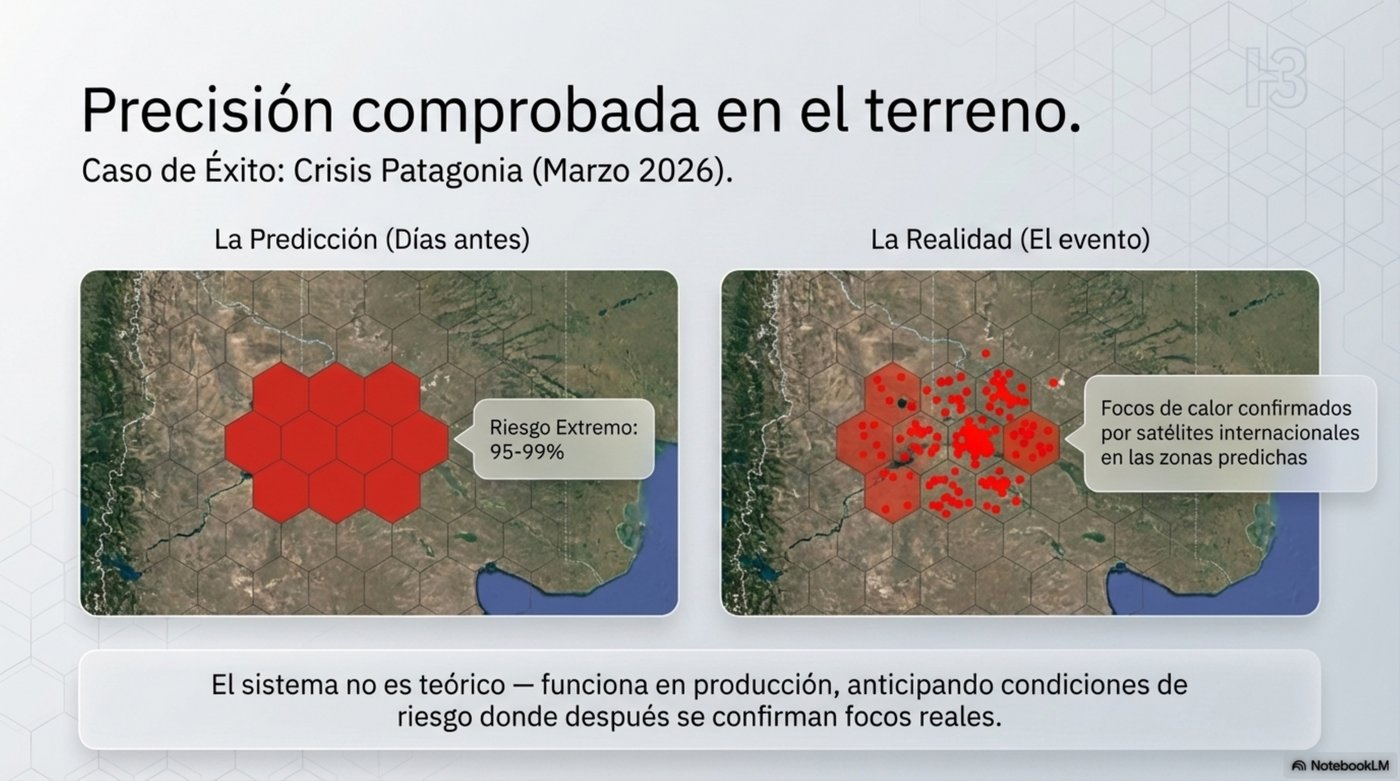
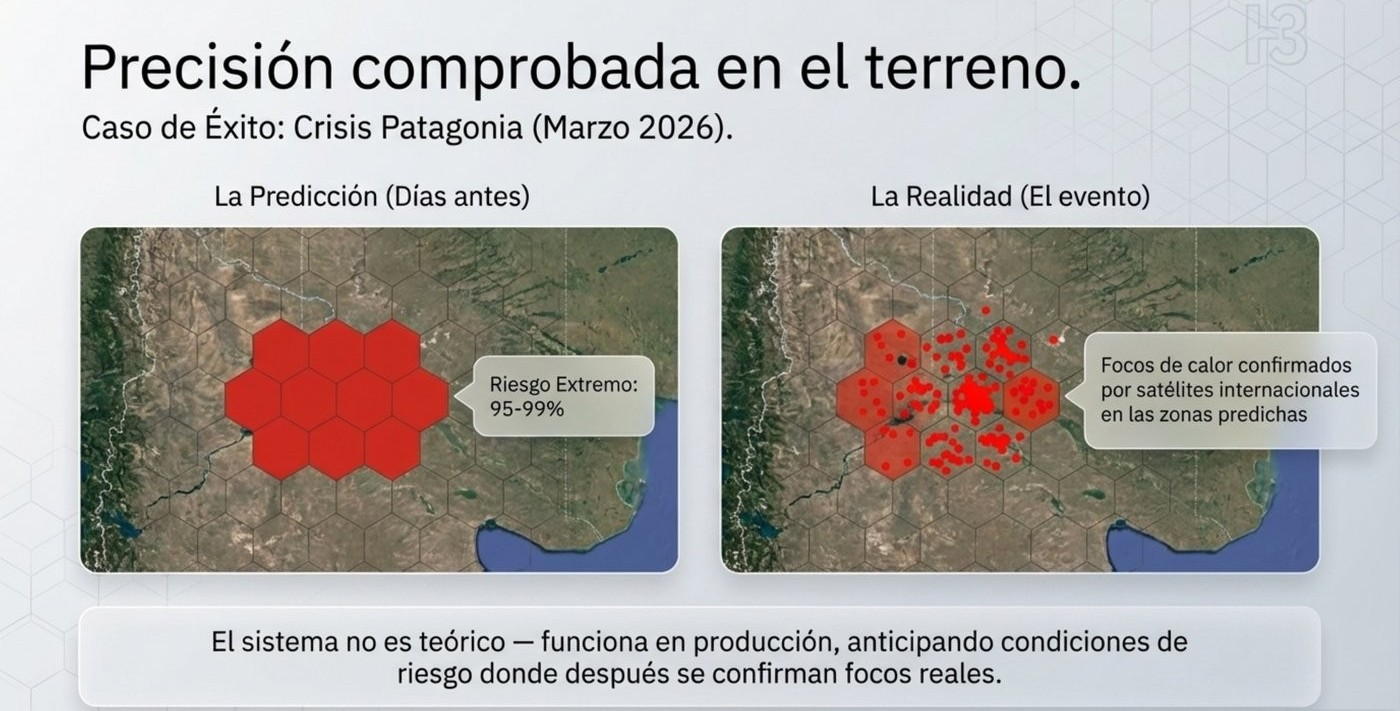
cambios de imagenes y legales

diff --git a/styles.css b/styles.css
@@ -706,12 +706,24 @@ a:hover { text-decoration: underline; }
 
 /* ===== RESPONSIVE ===== */
 @media (max-width: 768px) {
-    .hero h1 { font-size: 2rem; }
+    .header-content { flex-wrap: wrap; gap: 8px; justify-content: center; }
+    .header-content .logo img { height: 80px !important; }
+    .header-btn { font-size: 0.75rem; padding: 6px 12px; }
+    .lang-toggle { order: -1; width: 100%; text-align: center; }
+
+    .hero h1 { font-size: 1.8rem; }
+    .hero-subtitle { font-size: 0.95rem !important; }
     .hero-stats { flex-direction: column; gap: 24px; }
+    .hero-stat-value { font-size: 1.8rem; }
+
     .crisis-grid, .story-content, .contact-grid { grid-template-columns: 1fr; }
     .crisis-images { grid-column: 1; }
+    .comparison-grid { grid-template-columns: 1fr; }
     .solution-points, .apps-grid { grid-template-columns: 1fr 1fr; }
     .awards-row { flex-direction: column; }
+    .team-cards { flex-direction: column; }
+
+    .data-header h2, .section h2 { font-size: 1.5rem; }
 
     .map-badge {
         top: 12px;
@@ -723,10 +735,19 @@ a:hover { text-decoration: underline; }
     .map-badge-icon {
         font-size: 1rem;
     }
+
+    .tech-box { padding: 20px; }
+    .comparison-card { padding: 20px; }
+
+    .footer .container { flex-direction: column; text-align: center; }
+    .footer .container img { height: 80px !important; }
 }
 
 @media (max-width: 480px) {
+    .header-content .logo img { height: 60px !important; }
+    .hero h1 { font-size: 1.4rem; }
     .solution-points, .apps-grid, .crisis-stats { grid-template-columns: 1fr; }
+    .crisis-stat { padding: 16px; }
 }
 
 /* ===== DATA SECTION ===== */
